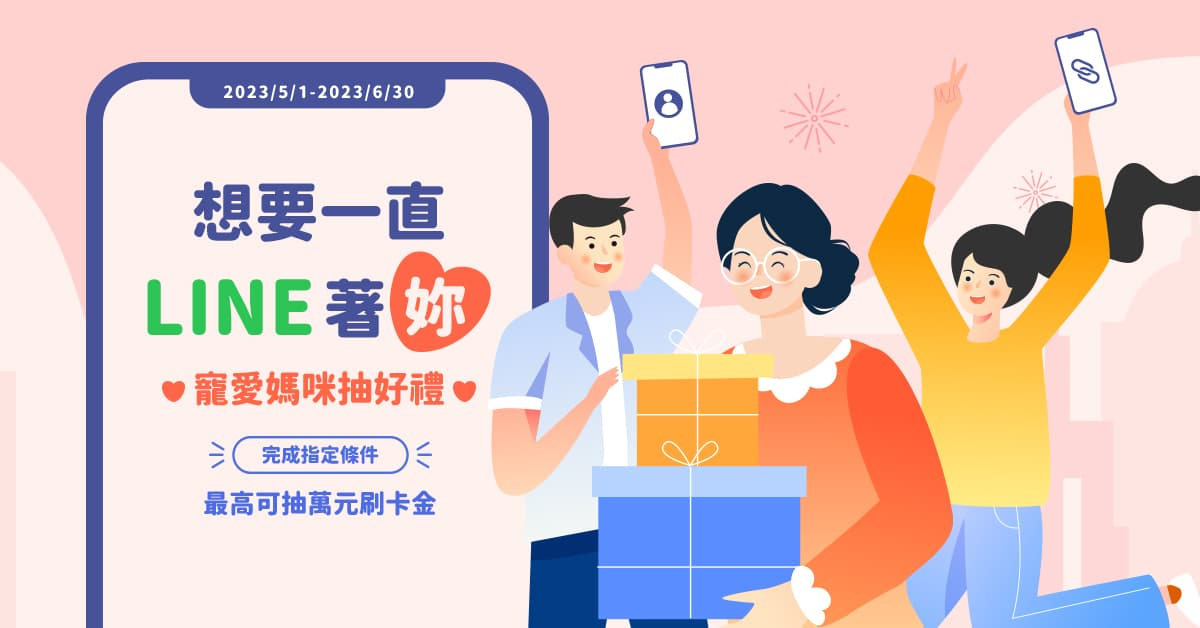
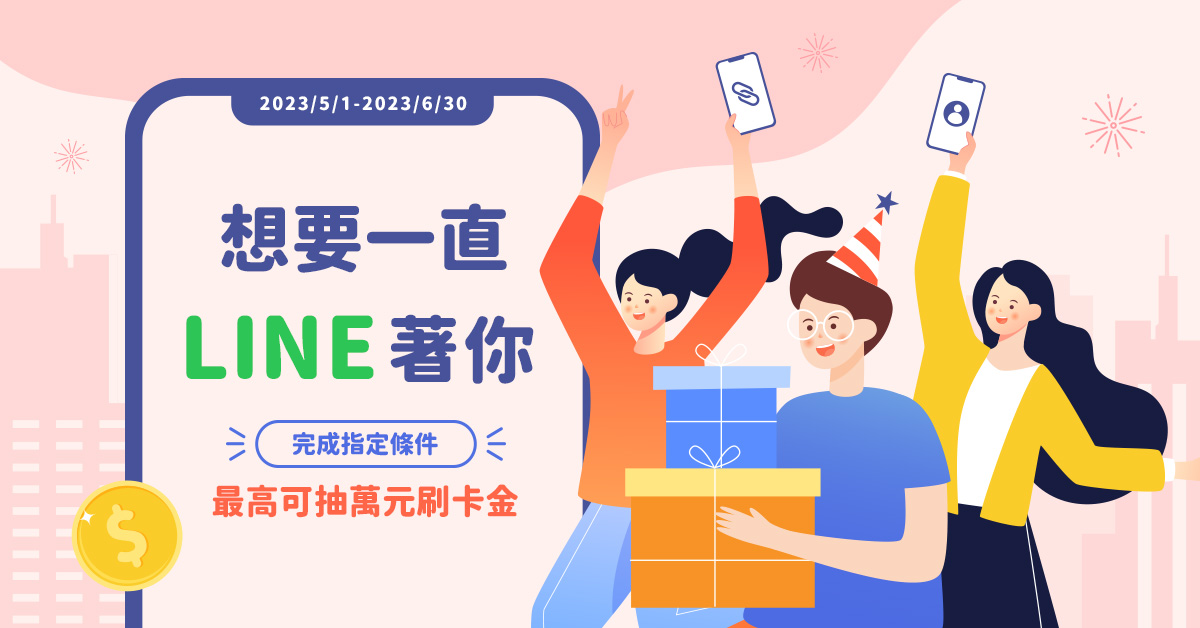
2

diff --git a/2023Q2/index.html b/2023Q2/index.html
@@ -5,13 +5,13 @@
     <meta charset="utf-8">
     <meta http-equiv="X-UA-Compatible" content="ie=edge">
     <title>
-        元大銀行｜想要一直LINE著妳 寵愛媽咪抽好禮
+        元大銀行｜想要一直LINE著你
     </title>
-    <meta name="description" content="元大銀行「想要一直LINE著妳」，邀你一起寵愛媽咪抽好禮，活動自5月1日至6月30日，完成指定任務即可獲得相對應之刷卡金，同時加碼抽萬元刷卡金！活動期間完成指定任務並新綁定LINE個人化服務，最多可獲得NT$300刷卡金。數位帳戶、數位存款帳戶、鑽金數位存款帳戶、任一行動支付新綁定、行動支付消費/儲值、線上辦卡、元大鑽金卡、元大信用神卡、線上換匯、線上換匯交易、元大LINE個人化服務、LINE個人化服務綁定、線上基金/ETF扣款新申請、完成任務享刷卡金、完成任務抽刷卡金、元大陪你寵愛媽咪、無卡提款交易、鑽金智慧理財、行動支付、帳戶連結支付、電子支付、元大銀行、元大、無卡提款、申辦數位存款帳戶">
+    <meta name="description" content="元大銀行「想要一直LINE著你」，邀你一起抽好禮，活動自5月1日至6月30日，完成指定任務即可獲得相對應之刷卡金，同時加碼抽萬元刷卡金！活動期間完成指定任務並新綁定LINE個人化服務，最多可獲得NT$300刷卡金。數位帳戶、數位存款帳戶、鑽金數位存款帳戶、任一行動支付新綁定、行動支付消費/儲值、線上辦卡、元大鑽金卡、元大信用神卡、線上換匯、線上換匯交易、元大LINE個人化服務、LINE個人化服務綁定、線上基金/ETF扣款新申請、完成任務享刷卡金、完成任務抽刷卡金、無卡提款交易、鑽金智慧理財、行動支付、帳戶連結支付、電子支付、元大銀行、元大、無卡提款、申辦數位存款帳戶">
     <meta name="viewport" content="width=device-width, initial-scale=1">
     <meta name="format-detection" content="telephone=no">
 
-    <meta property="og:title" content="元大銀行｜想要一直LINE著妳 寵愛媽咪抽好禮">
+    <meta property="og:title" content="元大銀行｜想要一直LINE著你">
     <meta property="og:site_name" content="元大銀行">
     <meta property="og:url" content="https://www.yuantabank.com.tw/bankwebIMG/event/Bank_Act2023/WelcomeMD/index.html">
     <meta property="og:description" content="5/1-6/30止，完成指定任務+LINE個人化綁定，即可獲得百元回饋，再加碼抽萬元刷卡金！">
@@ -276,17 +276,17 @@
                             </div>
                         </div>
                         <div class="discount-item swiper-slide">
-                            <div class="discountCard -gn">
+                            <div class="discountCard -pk">
                                 <div class="discountCard-pic">
-                                    <img src="./asset/images/pic/discount-60.png" alt="">
+                                    <img src="./asset/images/pic/discount-20.png" alt="">
                                 </div>
-                                <div class="discountCard-title">一卡通MONEY 支付優惠</div>
+                                <div class="discountCard-title">台灣Pay 支付優惠</div>
                                 <div class="discountCard-list">
                                     <ul>
-                                        <li>使用「<b>一卡通MONEY連結元大銀行帳戶</b>」，並於並於指定校園內商店消費及繳納校園行政規費，享消費總額最高<span>60%</span>回饋。</li>
+                                        <li>使用「<b>台灣Pay連結元大銀行帳戶</b>」，於台中市受理台灣Pay交易之指定店家消費，單筆享<span>20%</span>回饋。</li>
                                     </ul>
                                 </div>
-                                <a id="ipass2023MD" href="https://www.i-pass.com.tw/Preferential/Detail/2796" class="discountCard-btn" target="_blank" rel="noreferrer noopener"><span>活動詳情</span></a>
+                                <a id="ipass2023MD" href="https://www.yuantabank.com.tw/bankwebIMG/event/Bank_Act2023/twpay_taichung/index.html" class="discountCard-btn" target="_blank" rel="noreferrer noopener"><span>活動詳情</span></a>
                             </div>
                         </div>
                         <div class="discount-item swiper-slide">
@@ -425,11 +425,11 @@
             <li>得獎人不符合領獎條件或違反本活動規定事項者，元大銀行保有取消得獎資格的權利。</li>
         </ol>
         <br>
-        「想要一直LINE著妳 寵愛媽咪抽好禮」注意事項<br>
+        「想要一直LINE著你」注意事項<br>
         活動內容（以下簡稱本活動）：
         <ol class="chinese">
             <li data-num="一">活動期間自2023年5月1日起至2023年6月30日止。</li>
-            <li data-num="二">參加者於參加元大銀行舉辦之「想要一直LINE著妳 寵愛媽咪抽好禮」活動時，即視同已詳閱並同意接受本活動辦法及相關注意事項規定。</li>
+            <li data-num="二">參加者於參加元大銀行舉辦之「想要一直LINE著你」活動時，即視同已詳閱並同意接受本活動辦法及相關注意事項規定。</li>
             <li data-num="三">活動規則－
                 <ol>
                     <li>活動期間完成以下條件即可獲得相對應回饋。活動內容如下：

diff --git a/2023Q2/asset/css/main.css b/2023Q2/asset/css/main.css
@@ -606,9 +606,9 @@ body {
         -webkit-animation: heart 2s ease-in-out infinite;
                 animation: heart 2s ease-in-out infinite; }
   .banner-man {
-    bottom: -58%;
-    left: 36.5%;
-    width: 28%;
+    bottom: -66%;
+    left: 35.5%;
+    width: 29%;
     transform-origin: bottom center;
     -webkit-animation: man 3s ease-in-out infinite alternate;
             animation: man 3s ease-in-out infinite alternate; }
@@ -624,9 +624,9 @@ body {
     right: 10%;
     width: 39%; }
   .banner-hand {
-    bottom: -2.8%;
-    right: 28.8%;
-    width: 25.06944%;
+    bottom: -3%;
+    right: 27.9%;
+    width: 24%;
     transform-origin: top right;
     -webkit-animation: hand 2s ease-in-out infinite alternate;
             animation: hand 2s ease-in-out infinite alternate; }
@@ -683,9 +683,9 @@ body {
       .banner-mom {
         bottom: -101%; }
       .banner-man {
-        bottom: -55%; }
+        bottom: -58%; }
       .banner-woman {
-        bottom: -55%; }
+        bottom: -50%; }
     @-webkit-keyframes line {
       0% {
         transform: translateY(0); }
@@ -747,7 +747,7 @@ body {
         width: 48.875%; }
       .banner-woman {
         bottom: -29.9697%;
-        right: -7.375%;
+        right: -7.5%;
         width: 44.79167%; }
       .banner-mom {
         bottom: -63%;
